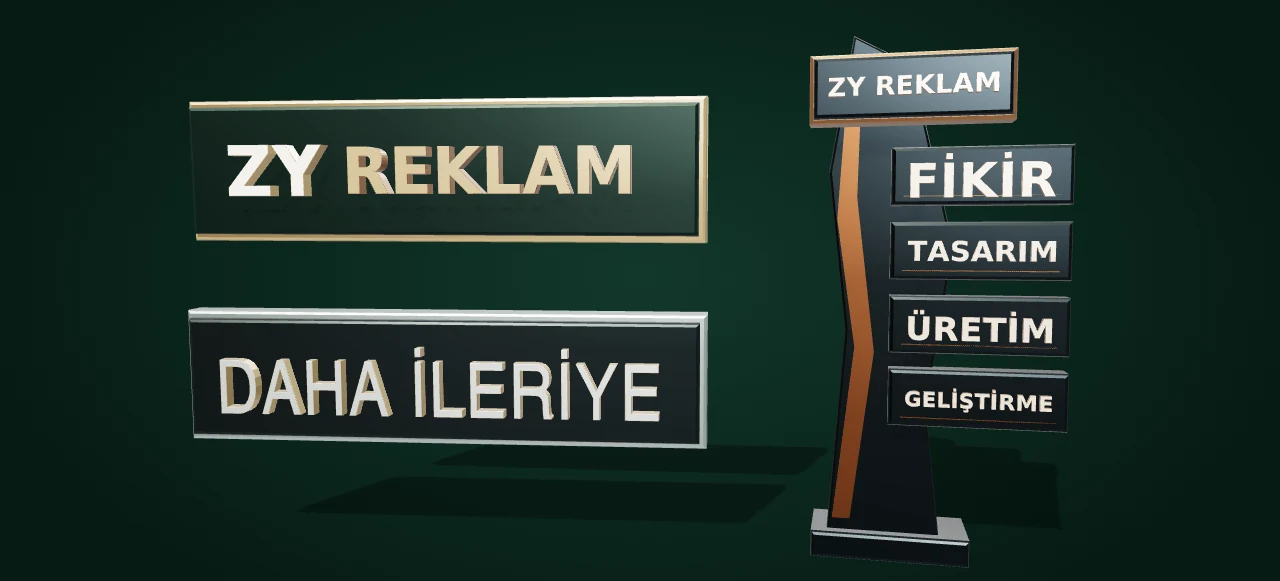
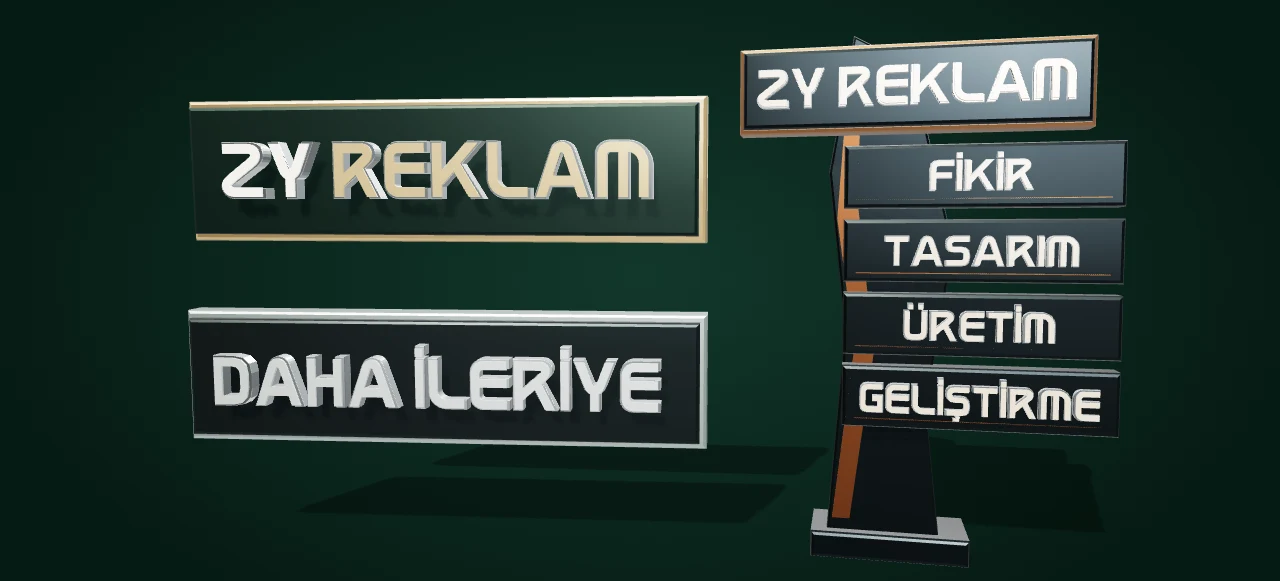
feat: refine showroom lettering with chrome cases and proximity lighting

Changed region(s): [[0.5625, 0.062, 0.9062, 0.7435], [0.1562, 0.5886, 0.5312, 0.7435], [0.1562, 0.2169, 0.5312, 0.3408]]

diff --git a/src/showroom/models.ts b/src/showroom/models.ts
@@ -1,7 +1,7 @@
 import { Group, Mesh, Shape, ExtrudeGeometry, BoxGeometry, MeshStandardMaterial, PointLight } from 'three';
 import { SVGLoader } from 'three/addons/loaders/SVGLoader.js';
 
-export type Outlines = Record<string, {svg:string; width:number; height:number; text:string; font:string}>;
+export type Outlines = Record<string, {svg:string; width:number; height:number; text:string; font:string; glyphs?:{char:string;x:number;width:number;path:string}[]}>;
 export interface Product { id:string; group:Group; baseYaw:number; basePitch:number; lights:PointLight[]; glow:MeshStandardMaterial[]; metal:MeshStandardMaterial[]; strength:number; }
 const material=(color:string,metalness=.85,roughness=.3)=>new MeshStandardMaterial({color,metalness,roughness});
 function box(parent:Group,w:number,h:number,d:number,mat:MeshStandardMaterial,x=0,y=0,z=0) {
@@ -12,25 +12,39 @@ function slab(parent:Group,w:number,h:number,depth:number,mat:MeshStandardMateri
   const geometry=new ExtrudeGeometry(s,{depth,bevelEnabled:true,bevelSegments:2,steps:1,bevelSize:.045,bevelThickness:.045,curveSegments:4});
   const mesh=new Mesh(geometry,mat);mesh.position.z=z;mesh.castShadow=true;mesh.receiveShadow=true;parent.add(mesh);return mesh;
 }
-function letters(parent:Group,outline:Outlines[string],width:number,face:MeshStandardMaterial,side:MeshStandardMaterial,depth:number,x:number,y:number,z:number) {
-  const parsed=new SVGLoader().parse(outline.svg);const shapes=parsed.paths.flatMap(p=>SVGLoader.createShapes(p));
-  const geometry=new ExtrudeGeometry(shapes,{depth:depth*outline.width/width,bevelEnabled:true,bevelThickness:.8,bevelSize:.6,bevelSegments:2,curveSegments:5,steps:1});
-  geometry.scale(width/outline.width,width/outline.width,width/outline.width);geometry.computeBoundingBox();const b=geometry.boundingBox!;geometry.translate(-(b.min.x+b.max.x)/2,-(b.min.y+b.max.y)/2,0);
-  const mesh=new Mesh(geometry,[face,side]);mesh.scale.y=-1;mesh.position.set(x,y,z);mesh.castShadow=true;parent.add(mesh);return mesh;
+const lightColors=['#20bcc9','#c94e58','#467acb','#d78c44','#eef3ed'];
+function letters(parent:Group,outline:Outlines[string],width:number,face:MeshStandardMaterial,chrome:MeshStandardMaterial,depth:number,x:number,y:number,z:number,glow?:MeshStandardMaterial[],colorOffset=0) {
+  const parsed=new SVGLoader().parse(outline.svg),scale=width/outline.width;
+  const assembly=new Group();assembly.position.set(x,y,z);parent.add(assembly);
+  parsed.paths.forEach((path,i)=>{
+    const shapes=SVGLoader.createShapes(path);
+    const geometry=new ExtrudeGeometry(shapes,{depth:depth/scale,bevelEnabled:true,bevelThickness:1,bevelSize:1,bevelSegments:2,curveSegments:3,steps:1});
+    geometry.scale(scale,scale,scale);geometry.translate(-outline.width*scale/2,-74*scale,0);
+    const housing=new Mesh(geometry,chrome);housing.scale.y=-1;housing.castShadow=true;assembly.add(housing);
+    // Each letter has its own inset luminous face inside a continuous chrome case.
+    const frontGeometry=new ExtrudeGeometry(shapes,{depth:.025/scale,bevelEnabled:true,bevelThickness:.35,bevelSize:.35,bevelSegments:1,curveSegments:3,steps:1});
+    frontGeometry.scale(scale,scale,scale);frontGeometry.computeBoundingBox();const bounds=frontGeometry.boundingBox!;
+    const cx=(bounds.min.x+bounds.max.x)/2,cy=(bounds.min.y+bounds.max.y)/2;
+    frontGeometry.translate(-cx,-cy,0);frontGeometry.scale(.90,.94,1);
+    const frontMaterial=face.clone();if(glow){frontMaterial.emissive.set(lightColors[(i+colorOffset)%lightColors.length]);frontMaterial.emissiveIntensity=0;frontMaterial.userData.baseColor=frontMaterial.color.clone();frontMaterial.userData.baseMetalness=frontMaterial.metalness;glow.push(frontMaterial);}
+    const front=new Mesh(frontGeometry,frontMaterial);front.scale.y=-1;front.position.set(cx-outline.width*scale/2,-(cy-74*scale),depth+.024);front.castShadow=true;assembly.add(front);
+  });
+  assembly.userData.capHeight=100*scale;assembly.userData.text=outline.text;assembly.userData.chrome=true;
+  return assembly;
 }
 export function createProducts(outlines:Outlines):Product[] {
   const gold=material('#c2a779',.92,.27),silver=material('#9caaa9',.95,.38),bronze=material('#8c6545',.9,.3);
   const white=material('#ede7d5',.35,.3),goldFace=material('#dbc08d',.82,.25),silverFace=material('#c2cacc',.88,.42);
   for(const m of [white,goldFace,silverFace]){m.emissive.set('#c18b43');m.emissiveIntensity=.025;}
-  const top=new Group();top.position.set(-2.4,1.5,0);top.rotation.set(.07,-.11,0);
+  const topGlow:MeshStandardMaterial[]=[],lowerGlow:MeshStandardMaterial[]=[];const chrome=material('#ccd6d9',1,.19);const top=new Group();top.position.set(-2.4,1.5,0);top.rotation.set(.07,-.11,0);
   slab(top,6.4,1.65,.25,gold);slab(top,6.22,1.47,.14,material('#10231f',.7,.38),.27);
   box(top,5.9,.016,.02,bronze,0,-.55,.43);
-  letters(top,outlines.zy,1.22,white,gold,.2,-1.95,0,.45);letters(top,outlines.reklam,3.55,goldFace,bronze,.2,.67,0,.45);
+  letters(top,outlines.zy,1.22,white,chrome,.2,-2.02,0,.45,topGlow);letters(top,outlines.reklam,3.88,goldFace,chrome,.2,.73,0,.45,topGlow,2);
   const lower=new Group();lower.position.set(-2.4,-1.05,.1);lower.rotation.set(.055,-.08,0);
   slab(lower,6.4,1.55,.28,silver);slab(lower,6.22,1.37,.12,material('#242d30',.88,.36),.3);
   // Small parallel metal grooves catch light without applying a flat picture.
   for(let i=0;i<8;i++)box(lower,5.9,.007,.009,material('#566365',.95,.55),0,-.58+i*.018,.435);
-  letters(lower,outlines.lower,5.48,silverFace,gold,.15,0,0,.46);
+  letters(lower,outlines.lower,5.48,silverFace,chrome,.18,0,0,.46,lowerGlow,3);
   const totem=new Group();totem.position.set(3.15,0,0);totem.rotation.set(.025,-.23,0);
   const dark=material('#1b2327',.88,.32);const profile=new Shape();profile.moveTo(-.7,-2.9);profile.lineTo(.55,-2.9);profile.lineTo(.38,-1.35);profile.lineTo(.66,.55);profile.lineTo(.16,2.68);profile.lineTo(-.46,3.02);profile.lineTo(-.72,1.45);profile.lineTo(-.51,-.45);profile.closePath();
   const body=new Mesh(new ExtrudeGeometry(profile,{depth:.58,bevelEnabled:true,bevelSize:.035,bevelThickness:.035,bevelSegments:2,steps:1}),dark);body.castShadow=true;body.receiveShadow=true;totem.add(body);
@@ -38,17 +52,18 @@ export function createProducts(outlines:Outlines):Product[] {
   const amber=material('#5b3820',.9,.4);amber.emissive.set('#ff7c20');amber.emissiveIntensity=.035;
   const channel=new Mesh(new ExtrudeGeometry(facet,{depth:.04,bevelEnabled:false}),amber);channel.position.z=.6;totem.add(channel);
   slab(totem,1.75,.23,.9,dark,-.15).position.y=-3.05;
-  const head=new Group();head.position.set(.16,2.38,.65);totem.add(head);slab(head,2.18,.7,.33,bronze);slab(head,2.08,.6,.07,dark,.35);
-  const lit=material('#cbbba3',.55,.3);lit.emissive.set('#ffad52');lit.emissiveIntensity=.025;letters(head,outlines.title,1.87,lit,bronze,.075,0,0,.45);
+  const head=new Group();head.position.set(.16,2.38,.65);totem.add(head);slab(head,3.8,.9,.33,bronze);slab(head,3.7,.8,.07,dark,.35);
+  const lit=material('#cbbba3',.55,.3);lit.emissive.set('#ffad52');lit.emissiveIntensity=.025;const totemGlow:MeshStandardMaterial[]=[amber];const title=letters(head,outlines.title,3.45,lit,chrome,.09,0,0,.45);title.traverse(o=>{if(o instanceof Mesh&&o.material!==chrome)totemGlow.push(o.material as MeshStandardMaterial);});
   ['idea','design','production','development'].forEach((key,i)=>{
     const panel=new Group();panel.position.set(.95,1.38-i*.86,.55);totem.add(panel);
-    box(panel,.7,.1,.18,bronze,-.7,0,-.06);slab(panel,1.88,.58,.28,dark);box(panel,1.7,.012,.03,amber,0,-.23,.31);
-    letters(panel,outlines[key],Math.min(1.62,outlines[key].width*.0055),lit,bronze,.065,0,0,.32);
+    box(panel,.7,.1,.18,bronze,-.7,0,-.06);slab(panel,2.95,.64,.28,dark);box(panel,2.75,.012,.03,amber,0,-.26,.31);
+    const label=letters(panel,outlines[key],outlines[key].width*.00345,lit,chrome,.075,0,0,.32);label.traverse(o=>{if(o instanceof Mesh&&o.material!==chrome)totemGlow.push(o.material as MeshStandardMaterial);});
   });
   const lamp=new PointLight('#ffa34d',0,5,2);lamp.position.set(-.25,.3,1.15);totem.add(lamp);
+  const signLights=(group:Group,colors:string[])=>colors.map((color,i)=>{const lamp=new PointLight(color,0,2.4,2);lamp.position.set(-1.4+i*2.8,0,.95);group.add(lamp);return lamp;});
   return [
-    {id:'upper',group:top,baseYaw:-.11,basePitch:.07,lights:[],glow:[white,goldFace],metal:[gold,bronze],strength:1},
-    {id:'lower',group:lower,baseYaw:-.08,basePitch:.055,lights:[],glow:[silverFace],metal:[silver],strength:.65},
-    {id:'totem',group:totem,baseYaw:-.23,basePitch:.025,lights:[lamp],glow:[lit,amber],metal:[dark],strength:.45},
+    {id:'upper',group:top,baseYaw:-.11,basePitch:.07,lights:signLights(top,['#64cbd3','#d99b64']),glow:topGlow,metal:[gold,bronze,chrome],strength:1},
+    {id:'lower',group:lower,baseYaw:-.08,basePitch:.055,lights:signLights(lower,['#789dde','#d77676']),glow:lowerGlow,metal:[silver,chrome],strength:.65},
+    {id:'totem',group:totem,baseYaw:-.23,basePitch:.025,lights:[lamp],glow:totemGlow,metal:[dark],strength:.45},
   ];
 }

diff --git a/src/showroom/renderer.ts b/src/showroom/renderer.ts
@@ -27,7 +27,7 @@ export function createShowroomRenderer(stage:HTMLElement,mount:HTMLElement,outli
       const yaw=p.baseYaw+(reduced?0:px*.11*n*p.strength),pitch=p.basePitch+(reduced?0:-py*.075*n*p.strength),z=reduced?0:.18*n*p.strength;
       if(Math.abs(p.group.rotation.y-yaw)>.0001||Math.abs(p.group.rotation.x-pitch)>.0001||Math.abs(old-n)>.0001)moving=true;
       p.group.rotation.set(pitch,yaw,0);p.group.position.z=z;
-      p.glow.forEach(m=>m.emissiveIntensity=.025+n*(p.id==='totem'?1.35:.38));p.lights.forEach(l=>l.intensity=n*4);
+      p.glow.forEach(m=>{m.emissiveIntensity=(p.id==='totem'?.025:0)+n*(p.id==='totem'?1.35:1.3);if(m.userData.baseColor){m.color.copy(m.userData.baseColor).lerp(m.emissive,n*.94).multiplyScalar(1-n*.92);m.envMapIntensity=1-n*.85;m.metalness=m.userData.baseMetalness*(1-n*.8);}});p.lights.forEach(l=>l.intensity=n*(p.id==='totem'?4:.85));
       p.metal.forEach(m=>m.envMapIntensity=1+n*.7);stage.dataset[p.id+'Active']=String(n>.1);stage.dataset[p.id+'Pose']=[pitch,yaw,z].join(',');
     }
     draw();if(moving){stage.dataset.loop='running';raf=requestAnimationFrame(animate);}else stop();
@@ -55,6 +55,6 @@ export function createShowroomRenderer(stage:HTMLElement,mount:HTMLElement,outli
     products[0].group.position.set(mobile?0:-2.4,mobile?3.65:1.5,0);products[1].group.position.set(mobile?0:-2.4,mobile?1.7:-1.05,0);products[2].group.position.set(mobile?-.4:3.15,mobile?-1.45:0,0);
     products[0].group.scale.setScalar(mobile?.78:1);products[1].group.scale.setScalar(mobile?.78:1);products[2].group.scale.setScalar(mobile?.78:1);
     floor.position.y=mobile?-3.99:-3.25;const height=Math.max(mobile?10.2:7.3,(mobile?5.3:11.9)/camera.aspect);camera.position.set(0,mobile?.2:.4,height/(2*Math.tan(35*Math.PI/360)));camera.lookAt(0,mobile?.15:0,0);camera.updateProjectionMatrix();if(visible){draw();wake();}}
-  const observer=new ResizeObserver(resize);observer.observe(stage);mount.append(canvas);resize();draw();stage.dataset.products='3';stage.dataset.geometry='extruded-letters-and-asymmetric-solid';stage.dataset.quality='standard';
+  const observer=new ResizeObserver(resize);observer.observe(stage);mount.append(canvas);resize();draw();stage.dataset.products='3';stage.dataset.letterStyle=outlines.lower.font;stage.dataset.chrome='true';stage.dataset.panelCapHeights=products[2].group.children.filter(g=>g.type==='Group').slice(1).map(g=>g.children.find(c=>c.userData.text)?.userData.capHeight).join(',');stage.dataset.titleCapHeight=String(products[2].group.children.find(g=>g.type==='Group')?.children.find(c=>c.userData.text)?.userData.capHeight);stage.dataset.lightPalette='#20bcc9,#c94e58,#467acb,#d78c44,#eef3ed';stage.dataset.geometry='extruded-letters-and-asymmetric-solid';stage.dataset.quality='standard';
   return {setVisible(value){if(value===visible)return;visible=value;if(value){draw();wake();}else{select(null);stop();}},setReduced(value){if(value===reduced)return;reduced=value;wake();},select,dispose(){if(disposed)return;disposed=true;stop();abort.abort();clearTimeout(touchTimer);observer.disconnect();const geometries=new Set<import('three').BufferGeometry>(),materials=new Set<Material>();scene.traverse(o=>{if(o instanceof Mesh){geometries.add(o.geometry);(Array.isArray(o.material)?o.material:[o.material]).forEach(m=>materials.add(m));}});geometries.forEach(g=>g.dispose());materials.forEach(m=>m.dispose());key.shadow.dispose();env.dispose();renderer.dispose();renderer.forceContextLoss();canvas.remove();stage.dataset.resources='disposed';}};
 }

diff --git a/scripts/generate-showroom-outlines.py b/scripts/generate-showroom-outlines.py
@@ -1,19 +1,50 @@
-"""Optional asset regeneration: Python fontTools + DejaVu / URW Base35 fonts.
-Versioned outlines are used by npm builds; Python is not a build dependency.
-Run from the repository root: python scripts/generate-showroom-outlines.py
+"""Generate showroom vector lettering from the approved wordmark and matching glyphs.
+Optional tool: Python fontTools. npm builds use the versioned JSON, not Python.
+The source brand SVG and existing hero are never rewritten.
 """
-from fontTools.ttLib import TTFont
+from pathlib import Path
+from xml.etree import ElementTree as ET
+from fontTools.svgLib.path import parse_path
+from fontTools.pens.boundsPen import BoundsPen
 from fontTools.pens.svgPathPen import SVGPathPen
 from fontTools.pens.transformPen import TransformPen
-from pathlib import Path
 import json
-fonts={'bold':'/usr/share/fonts/truetype/dejavu/DejaVuSans-Bold.ttf','narrow':'/usr/share/fonts/opentype/urw-base35/NimbusSansNarrow-Regular.otf'}
-texts={'zy':('ZY','bold'),'reklam':('REKLAM','bold'),'lower':('DAHA İLERİYE','narrow'),'title':('ZY REKLAM','bold'),'idea':('FİKİR','bold'),'design':('TASARIM','bold'),'production':('ÜRETİM','bold'),'development':('GELİŞTİRME','bold')};data={}
-for key,(text,font) in texts.items():
- f=TTFont(fonts[font]);g=f.getGlyphSet();cmap=f.getBestCmap();s=100/f['head'].unitsPerEm;x=0;paths=[]
- for c in text:
-  name=cmap[ord(c)];p=SVGPathPen(g);g[name].draw(TransformPen(p,(s,0,0,-s,x,95)));paths.append(p.getCommands());x+=f['hmtx'][name][0]*s+(3 if font=='narrow' else 1)
- svg=f'<svg xmlns="http://www.w3.org/2000/svg" viewBox="0 0 {x:.3f} 120"><path fill="#ffffff" d="'+''.join(paths)+'"/></svg>'
- data[key]={'svg':svg,'width':x,'height':120,'text':text,'font':font}
-Path(__file__).resolve().parents[1].joinpath('public/assets/showroom/letter-outlines.json').write_text(json.dumps(data,ensure_ascii=False))
-Path(__file__).resolve().parents[1].joinpath('public/assets/showroom/FONT_NOTICES.txt').write_text(Path('/usr/share/doc/fonts-dejavu-core/copyright').read_text()+'\n'+Path('/usr/share/doc/fonts-urw-base35/copyright').read_text())
+root = Path(__file__).resolve().parents[1]
+source = ET.parse(root / 'public/assets/brand/zy-reklam-wordmark.svg').getroot()
+paths = source.findall('{http://www.w3.org/2000/svg}path')
+glyphs = {}
+for letter, path in zip('ZYREKLAM', paths):
+    bounds = BoundsPen(None); parse_path(path.attrib['d'], bounds)
+    x0, y0, x1, y1 = bounds.bounds
+    scale = 100 / (y1-y0)
+    pen = SVGPathPen(None)
+    parse_path(path.attrib['d'], TransformPen(pen, (scale,0,0,scale,-x0*scale,-y0*scale)))
+    glyphs[letter] = (pen.getCommands(), (x1-x0)*scale)
+# Additional original glyphs follow the logo's rounded corners and 18-unit metal strokes.
+custom = {
+'D': ('M0 0H43Q78 0 78 35V65Q78 100 43 100H0Z M18 18V82H42Q60 82 60 64V36Q60 18 42 18Z',78),
+'H': ('M0 0H18V41H59V0H77V100H59V59H18V100H0Z',77),
+'I': ('M0 0H18V100H0Z',18),
+'F': ('M0 100V26Q0 0 26 0H77V18H28Q18 18 18 28V41H70V59H18V100Z',77),
+'G': ('M78 0V18H28Q18 18 18 28V72Q18 82 28 82H60V60H43V42H78V100H26Q0 100 0 74V26Q0 0 26 0Z',78),
+'S': ('M77 0V18H27Q18 18 18 27Q18 36 27 36H51Q78 36 78 63V73Q78 100 51 100H0V82H50Q60 82 60 72V64Q60 54 50 54H27Q0 54 0 27Q0 0 27 0Z',78),
+'T': ('M0 0H80V18H49V100H31V18H0Z',80),
+'U': ('M0 0H18V70Q18 82 30 82H48Q60 82 60 70V0H78V72Q78 100 50 100H28Q0 100 0 72Z',78),
+}
+glyphs.update(custom)
+glyphs['İ']=(glyphs['I'][0]+' M0 -24H18V-7H0Z',18)
+glyphs['Ü']=(glyphs['U'][0]+' M13 -24H30V-7H13Z M48 -24H65V-7H48Z',78)
+glyphs['Ş']=(glyphs['S'][0]+' M32 105H47L43 120H24V111H34Z',78)
+texts={'zy':'ZY','reklam':'REKLAM','lower':'DAHA İLERİYE','title':'ZY REKLAM','idea':'FİKİR','design':'TASARIM','production':'ÜRETİM','development':'GELİŞTİRME'}
+data={}
+for key,text in texts.items():
+    x=0; glyph_records=[]; chunks=[]
+    for char in text:
+        if char==' ': x+=30; continue
+        path,width=glyphs[char]; pen=SVGPathPen(None)
+        parse_path(path,TransformPen(pen,(1,0,0,1,x,24)))
+        d=pen.getCommands(); chunks.append(f'<path fill-rule="evenodd" fill="#fff" d="{d}"/>')
+        glyph_records.append({'char':char,'x':x,'width':width,'path':d})
+        x+=width+7
+    data[key]={'svg':f'<svg xmlns="http://www.w3.org/2000/svg" viewBox="0 0 {x} 144">'+''.join(chunks)+'</svg>','width':x,'height':144,'capHeight':100,'text':text,'font':'approved-wordmark-geometric'}
+(root/'public/assets/showroom/letter-outlines.json').write_text(json.dumps(data,ensure_ascii=False),encoding='utf-8')

diff --git a/LAST_REPORT.md b/LAST_REPORT.md
@@ -1,49 +1,41 @@
-# ZY Reklam — P3.7 Son Rapor
+# ZY Reklam — P3.7a Son Rapor
 
-Tarih: 2026-10-01
-Depo: akinarslan/zy_reklam · hedef dal: main
-Sonuç: Bağımsız 3D Vitrin / Showroom tamamlandı; üretim build’i ve 29 test başarılı.
+Tarih: 2026-10-01 · Depo: akinarslan/zy_reklam · Dal: main
+Sonuç: Vitrin harf stili, krom kasalar, renkli yaklaşma ışıkları ve totem tipografi hiyerarşisi tamamlandı.
 
-## Yerleşim ve ürünler
+## Kullanıcı talimatının karşılığı
 
-Yeni `#vitrin` bölümü mevcut hero’nun hemen ardından ve `#hizmetler` bölümünden önce yer alır. Hero’nun bir parçası değildir. Koyu zümrüt atmosfer, masaüstünde solda iki tabela ve sağda totem; dar ekranda okunaklı üst üste ürün düzeni.
+Yeniden yüklenen ekran görüntüsü bu defa açılıp incelendi. Gösterilen yuvarlatılmış/geometrik ZY REKLAM stili bütün yeni vitrin yazılarına uygulandı. ZY REKLAM yazıları mevcut onaylı SVG’nin özgün Z/Y/R/E/K/L/A/M konturlarından oluşturulur. Diğer kelimeler aynı glifler ve bu harf diline uyarlanmış ek D/H/I/F/G/S/T/U ile Türkçe İ/Ü/Ş işaretlerini kullanır. Belirli bir font adı tahmin edilmedi. Mevcut hero ve ilk 3D tabela aynen korundu.
 
-- Üst tabela tam `ZY REKLAM`: tok modern karakter, fildişi ZY ön yüzü, şampanya REKLAM ön yüzü, altın/bronz yan yüz ve çerçeve; zümrüt/antrasit taşıyıcı.
-- Alt tabela tam `DAHA İLERİYE`: farklı ve dar Nimbus Sans Narrow karakteri; füme taşıyıcı, gümüş/alüminyum çerçeve ve ön yüz, şampanya yan yüz. Metal çizgiler, roughness ve çevre yansımaları.
-- Totem: kırıklı/asimetrik antrasit gövde, bronz/amber kanal, gerçek kalınlık ve taban. Üst blok `ZY REKLAM`; dışarı taşan dört fiziksel kutuda `FİKİR`, `TASARIM`, `ÜRETİM`, `GELİŞTİRME`.
+Her harfin tam çevresi ve yan yüzleri gerçek ekstrüzyon krom kasa olarak üretildi. Kasanın içinde daha küçük, ayrı kalınlığı olan ışıklı ön yüz bulunur; düz yazı görseli yapıştırılmadı. Krom metalness/roughness, bevel, perspektif ve gölgeler kutu harf derinliğini belirginleştirir.
 
-Harfler font gliflerinin SVG konturlarından bevel/extrusion ile üretilir; yazı görseli yapıştırılan düzlem kullanılmadı. Panel, gövde, çerçeve, yan yüz ve gölgeler gerçek geometridir. Sahne ana geçişinde 34.374 üçgen doğrulandı. Ürünler temsili tasarım olarak belirtilir; müşteri işi/sahiplik iddiası yapılmaz. Kullanıcının sözünü ettiği NORTHFESTIA referansının dosyası bu çalışma ortamında mevcut değildi; yazılı form ve ışık tarifine göre özgün model üretildi.
+İki tabelanın harflerine cam göbeği, kırmızı, mavi, turuncu ve beyazın kontrollü tonları dağıtıldı. Mouse yalnız ilgili tabelaya yaklaşınca ışık yumuşakça açılır; uzaklaşınca kapanır ve normal metal/fildişi/altın görünüm geri gelir. Sabit renk dağılımı kullanılır; renk döngüsü, strobe veya sürekli float yoktur. İç yüzlerin ışık/diffuse dengesi, güçlü çevre ışığında renklerin beyazlaşmasını azaltacak biçimde ayarlandı. Krom çevre renkli LED yüzeyden bağımsız metalik kalır; yerel renkli ışıklar taşıyıcıya hafif yansır.
 
-## Etkileşim, erişilebilirlik ve kaynak yönetimi
+Totem yön yazıları aynı 0,345 dünya birimi cap-height ölçeğindedir: FİKİR, TASARIM, ÜRETİM, GELİŞTİRME. Kelime genişlikleri doğal olarak farklıdır. Uzun kelime küçültülmedi; fiziksel kutular genişletildi. Üst ZY REKLAM 0,4372 cap-height ile yaklaşık %27 daha büyüktür. Totem geometrik gövdesi, dört fiziksel paneli ve sıcak amber etkileşimini korur.
 
-Normal durumda üç obje tamamen sabittir; float/sallanma yoktur. Raycast ve küçük yaklaşma alanı yalnız ilgili ürünün sınırlı tilt, öne gelme, metal highlight ve yumuşak ışık tepkisini çalıştırır. Alt tabela daha kontrollü tepki verir. Totem seçildiğinde amber kanal, ana başlık ve dört panel birlikte aydınlanır; çevre metalinde hafif sıcak yansıma oluşur. Mouse ayrılınca başlangıç durumuna döner.
+## Mimari ve korunan davranışlar
 
-Dokunma doğrudan canvas üzerinde desteklenir; tepki 900 ms sonra söner. Parmağın kalkması kısa tepkiyi kesmez; dikey sayfa kaydırma korunur. Üç erişilebilir düğme klavyeyle ürün seçimini sağlar. Reduced motion’da 3D görüntü ve ışık korunur, tilt/poz hareketi uygulanmaz.
+Mimari v1.11/A12, roadmap v1.10/P3.7a. Önceki farklı-font şartı kullanıcının yeni bütün-yazılar-aynı-stil talimatıyla açıkça revize edildi. Yerleşim bağımsız hero-altı vitrin olarak kaldı. Lazy yükleme, obje bazlı yaklaşma, kısa touch tepkisi, klavye düğmeleri, idle/offscreen/hidden duruşu, kaynak temizliği ve reduced-motion sabit 3D pozu korunur.
 
-IntersectionObserver 180 px yaklaşınca dinamik renderer ve harf konturları yüklenir. Idle, görünmeyen bölüm, gizli sekme ve pagehide durumlarında RAF durur. Mobil DPR sınırlanır; sürdürülen yavaş karelerde DPR/gölge kalitesi azaltılır. Temizleme olayları geometri, malzeme, environment, shadow ve WebGL kaynaklarını bırakır.
+Ana sayfa HTML’i, main.ts/main.css, bütün hero kaynakları, navigation, WhatsApp stili ve wrangler.jsonc başlangıç SHA-256 kimlikleriyle eşleşti. Projeler/Promosyonlar mega menülerine, WhatsApp’a, domain/Cloudflare ayarlarına ve diğer sayfa tasarımına dokunulmadı. Özgün marka SVG’si değişmedi; yalnız vitrin konturları ondan türetildi.
 
-Mevcut hero koduna dokunmadan bağımsız renderer kullanıldı. Hero ürün sahnesi görünürken showroom RAF çalışmaz. İki context bellekte bulunabilir; mimarinin önceki tek-renderer hedefinin kullanıcı kapsamına özel bu revizyonu A12’de açıkça kaydedildi.
+Masaüstü/mobil statik WebP yedekler yeni gerçek 3D görünümden güncellendi. Three.js yüklenemezse veya context kaybolursa aynı ürün düzeni gösterilir. Temsili ürün açıklaması korunur.
 
-Three.js/modül yüklemesi, WebGL veya context kaybı başarısız olursa aynı gerçek sahneden alınmış responsive masaüstü/mobil WebP statik yedeği görünür. JavaScript kapalıyken de ürünler ve metin erişilebilirdir.
+## Doğrulama ve sınırlar
 
-## Korunan alanlar
+- npm run build başarılı; TypeScript hatası yok.
+- ZY_CHROMIUM_PATH=/workspace/scratch/b50044a63eb5/qa-tools/chromium npm test: 29 test / 29 pass / 0 fail.
+- Stil/krom/beş renk, eşit yön yazıları ve en az %20 büyük başlık koşulları gerçek tarayıcı kabul testine eklendi; geçti.
+- Obje bazlı mouse/touch, boşta/dışarıda durma, reduced-motion sabit poz, lazy yükleme, modül hatası ve context-loss yedeği geçti.
+- Mevcut hero, menü/kategori/medya, iletişim ve cihaz ölçüm testleri geçti. 360/768/1440 px yatay taşma yok.
+- Vitrin 360/1440 px, normal ve ışıklı tabela/totem ekranları görsel olarak incelendi.
 
-Başlangıç main: `72d2dcb0cf15ad670f2bb132410b5dbf87ec30dc`. Yeni showroom bloğu çıkarıldığında index.html başlangıç içeriğiyle birebir aynıdır. Hero HTML’i ve bütün src/scene dosyaları değişmedi. Navigation, teklif/iletişim kodu, promosyon/proje stilleri, WhatsApp stili ve wrangler.jsonc SHA-256 eşleşmeleri başarılıdır. Projeler/Promosyonlar mega menüleri, WhatsApp, domain ve Cloudflare yapılandırmasına dokunulmadı. CSS’de yalnız yeni bağımsız stylesheet import’u; main.ts’de yalnız yeni bağımsız adapter bağlantısı eklendi.
+Krom kasa ve ayrı ışıklı yüzlerle ana sahne geometrisi 71.014 üçgendir. İlk krom prototipinin 167.318 üçgeni curve/bevel bütçesi azaltılarak düşürüldü. Yeni npm bağımlılığı eklenmedi; ortak Three/SVGLoader chunk’ının yaklaşık 600 KB / gzip 154 KB Vite uyarısı sürer ve dinamik yükleme korunur. Chromium/ANGLE SwiftShader ve viewport emülasyonu fiziksel mobil GPU kabulü değildir; P3.6 fiziksel kabulü açık kalır.
 
-## Doğrulama
+## Dosyalar ve kayıt
 
-- `npm run build`: başarılı; TypeScript hatası yok.
-- `ZY_CHROMIUM_PATH=/workspace/scratch/b50044a63eb5/qa-tools/chromium npm test`: 29/29 başarılı; mevcut 26 test ve yeni 3 showroom testi.
-- Masaüstü/mobil 360, 768 ve 1440 px: yatay taşma ve sayfa hatası yok. Vitrin 360/1440 px görüntüleri görsel olarak incelendi.
-- Üç ürünün bağımsız seçimi, gerçek mouse/touch, idle/offscreen duruşu, reduced-motion sabit pozu, lazy yükleme, modül hatası ve context-loss statik yedeği geçti.
-- Mevcut hero geometrisi, özgün konturlar, menüler, kategori URL’leri, videolar, WhatsApp ve cihaz ölçüm testleri geçti.
+Değişen uygulama/varlıklar: src/showroom/models.ts ve renderer.ts; scripts/generate-showroom-outlines.py; public/assets/showroom/letter-outlines.json ile iki statik WebP; tests/showroom.test.mjs. Belgeler: ARCHITECTURE.md, ROADMAP.md, docs/ASSET_INVENTORY.md, bu rapor. Kanıtlar: P3_7_STYLE_PRESERVATION.json, P3_7_STYLE_VERIFICATION.json, P3_7_SHOWROOM_VERIFICATION.json, P3_7_TEST_RUN.txt ve altı vitrin JPG’si.
 
-Kanıtlar: `docs/evidence/P3_7_PRESERVATION.json`, `P3_7_SHOWROOM_VERIFICATION.json`; `p3-7-showroom-1440.jpg`, `p3-7-showroom-360.jpg` ve iki ışıklı görünüm. Test tarayıcısı Chromium/ANGLE SwiftShader’dır; mobil viewport emülasyonu fiziksel GPU ölçümü değildir. P3.6 fiziksel kabulü açık kalır.
+Python fontTools yalnız isteğe bağlı kontur üretimi için gereklidir; npm build sürümlenmiş JSON’u kullanır. Önceki font bildirimleri tarihsel dosya olarak korunur; yeni konturlar DejaVu/Nimbus kullanmaz.
 
-Vite ortak Three/SVGLoader dosyası yaklaşık 600 KB (gzip 154 KB) için chunk boyut uyarısı verir. Bu hata değildir; Three dinamik yüklenir ve sahneler aynı ortak chunk’ı paylaşır. Yeni npm bağımlılığı eklenmedi.
-
-## Belgeler, varlıklar ve kayıt
-
-Mimari v1.10/A12, roadmap v1.9/P3.7 ve varlık envanteri güncellendi. Yeni src/showroom modülleri, scoped stylesheet, font konturları/lisans bildirimleri, statik yedekler, isteğe bağlı fontTools üretim script’i ve tarayıcı testi eklendi. Normal npm build için Python/font kurulumu gerekmez; konturlar sürümlenmiştir.
-
-Bu rapor proje kökündeki LAST_REPORT.md dosyasının önceki içeriğinin üzerine yazıldı; aynı içerik terminalde gösterildi. Değişiklikler mevcut uzak ağacı koruyarak GitHub main’e kaydedilir; commit kimliği kayıt doğrulamasından sonra son yanıtta verilir. Cloudflare/domain ayarları değiştirilmedi ve canlı yayın başarısı bu raporda iddia edilmez. Sonraki tek iş: canlı yayında yeni bağımsız vitrin bölümünü doğrulamak.
+LAST_REPORT.md önceki içeriğin üzerine UTF-8 yazıldı; aynı tam rapor terminalde gösterildi. Kayıt mevcut uzak ağacı koruyarak GitHub main’e yapılır ve yeniden okunarak doğrulanır; oluşan commit kimliği son yanıtta verilir. Canlı Cloudflare yayını bu raporda doğrulanmış sayılmaz. Sıradaki tek iş: canlı vitrinde yeni stil, krom çevre ve renkli yaklaşma ışıklarının görünürlüğünü doğrulamak.

diff --git a/ROADMAP.md b/ROADMAP.md
@@ -1,6 +1,6 @@
 # ZY Reklam — Yol Haritası
 
-**Sürüm:** 1.9 · **Başlangıç:** 2026-10-01
+**Sürüm:** 1.10 · **Başlangıç:** 2026-10-01
 
 **Kaynak:** [ARCHITECTURE.md](ARCHITECTURE.md) · **Zorunlu kontrol:** [AGENTS.md](AGENTS.md)
 
@@ -10,7 +10,7 @@
 
 **Aktif aşama:** P3 — Gerçek 3D açılış uygulandı; performans kapanışı devam ediyor.
 
-**Kullanıcı önceliği:** P3.7 — Hero’ya dokunmadan bağımsız 3D Vitrin. Kullanıcının açık önceliği fiziksel P3.6 kapanışı beklenirken uygulanır; diğer aşamalar tamamlanmış sayılmaz.
+**Kullanıcı önceliği:** P3.7a — Vitrin harf stili, krom kasa ve kontrollü renkli yaklaşma ışığı. Kullanıcının açık önceliği fiziksel P3.6 kapanışı beklenirken uygulanır; diğer aşamalar tamamlanmış sayılmaz.
 
 P1 kaynak, logo, font ve iletişim incelemesi yapıldı; gerçek proje bilgileri/fotoğrafları doğrulanmadığı için P1.5 açık kalır. Planın engel yönetimi uyarınca bağımsız P2 temeli tamamlandı. Vite/TypeScript sayfası, statik SVG poster, mobil menü, hareket tercihi ve temel WhatsApp iletişim akışı çalışıyor. Gerçek 3D açılış şimdi uygulanmıştır. Üretim animasyonları, galeri, stüdyo ve upload henüz uygulanmadı.
 
@@ -90,6 +90,8 @@ Süreler takvim taahhüdü değildir. P1 sonrası logo kalitesi, gerçek görsel
 - [x] P3.7 Bağımsız 3D Vitrin: iki farklı kutu harf tabela/asimetrik totem; obje bazlı etkileşim, lazy/reduced/mobile/fallback ve korunan hero kanıtı. **Tamamlandı; fiziksel GPU kabulü P3.6 kapsamında açık.**
 
 **Kabul:** Amblem özgün kaynakla eşleşir; yaklaşık yazı logosu kullanılmaz. İlk içerik 3D’yi beklemez. CTA üzerine canvas binmez. Model/texture/env başlangıç 3 MB hedefinde ölçülür. Tanımlı masaüstü ve mobil cihazlarda kare hızı kaydedilir; bütçe aşılıyorsa sonraki aşamadan önce optimize edilir veya hedef revizyonu gerekçelendirilir.
+
+- [x] P3.7a Referanstaki geometrik harf stili; krom çevre, beş kontrollü ışık rengi; eşit yön yazıları ve büyük ZY REKLAM. **Tamamlandı.**
 
 ## 7. P4 — Üretim sahnesi ve hizmetler
 
@@ -335,3 +337,12 @@ Sıradaki tek iş:
 - npm run build / TypeScript ve mevcut 26 + yeni 3 = 29 test başarılı. 360/768/1440 px yatay taşma yok; vitrin 360/1440 görüntüleri incelendi. P3_7_SHOWROOM_VERIFICATION.json ve dört ekran görüntüsü. Yazılım GPU/emülasyon fiziksel mobil performans kabulü değildir.
 - Vite ortak Three/SVGLoader chunk’ı ~600 KB / gzip ~154 KB için boyut uyarısı verir; dinamik yükleme korunur. Domain/Cloudflare, menüler ve WhatsApp değişmedi. LAST_REPORT.md üzerine yazıldı ve terminalde gösterildi.
 - Kayıt hedefi GitHub main. Canlı Cloudflare yayını bu yerel/üretim preview kabulünün parçası değildir; sonraki tek iş canlı yeni bölümün görünürlüğünü doğrulamaktır.
+
+### 2026-10-01 — P3.7a geometrik harf/krom/renkli ışık revizyonu
+
+- Yeni görsel açıldı: özgün wordmark’ın yuvarlatılmış/geometrik harf dili. Vitrindeki ZY REKLAM için özgün SVG konturları, diğer yazılar için aynı harfler ve uyumlu ek glifler. Önceki farklı-font şartı kullanıcının açık yeni talimatıyla revize edildi; hero kaynağı değişmedi.
+- Her harf gerçek ekstrüzyon krom kasa + ayrı iç ön yüz. Mouse/touch/klavye ile cam göbeği/kırmızı/mavi/turuncu/beyaz kontrollü ışık; idle kapalı. Totem amber tepkisini korur. FİKİR/TASARIM/ÜRETİM/GELİŞTİRME cap-height 0,345; ZY REKLAM 0,4372, yaklaşık %27 büyük. Uzun kelime küçültülmedi, kutular genişletildi.
+- Geometri 71.014 üçgen; ilk krom prototipindeki 167.318 üçgen bevel/curve bütçesiyle azaltıldı. Dinamik yükleme, idle/offscreen duruşu, mobil DPR/kalite düşürme ve reduced-motion sabit poz korunur. Fiziksel GPU kabulü hâlâ P3.6 kapsamında açık.
+- npm run build / TypeScript ve tüm 29 test başarılı, 0 fail. Yeni kabul stil/krom/beş renk, eşit harf yüksekliği/büyük başlık ile genişletildi. 360/1440 vitrin ekranları ve iki tabela ışıklı görünümü incelendi; 360/768/1440 genel taşma kontrolleri geçti.
+- P3_7_STYLE_PRESERVATION.json: index/main/CSS, hero modülleri, navigation, WhatsApp ve Wrangler aynı. Modeller/renderer, kontur üretici/JSON, responsive yedekler, showroom testi, envanter/plan/rapor ve kabul kanıtları değişti. Mimari v1.11/A12; roadmap v1.10. LAST_REPORT.md üzerine yazıldı ve terminalde gösterildi.
+- GitHub main kayıt hedefidir; canlı Cloudflare yayını bu yerel kabulden çıkarılmaz. Sıradaki tek iş: canlı vitrinde yeni krom/renkli harflerin yayınlandığını doğrulamak.

diff --git a/ARCHITECTURE.md b/ARCHITECTURE.md
@@ -1,6 +1,6 @@
 # ZY Reklam — Mimari
 
-**Sürüm:** 1.10 · **Tarih:** 2026-10-01 · **Durum:** P3 gerçek 3D ve güvenli yollar uygulandı; fiziksel cihaz performans kabulü açık
+**Sürüm:** 1.11 · **Tarih:** 2026-10-01 · **Durum:** P3 gerçek 3D ve güvenli yollar uygulandı; fiziksel cihaz performans kabulü açık
 
 **İlgili belgeler:** [Yol haritası](ROADMAP.md) · [Çalışma kuralları](AGENTS.md)
 
@@ -325,3 +325,9 @@ Video içerik kaydı isteğe bağlı description alanı içerir; üretici açık
 Kullanıcının açık kapsam revizyonu: hero ve hizmetler arasında bağımsız showroom; iki ekstrüzyon kutu harf tabela ve asimetrik totem. src/showroom modülü mevcut hero koduna dokunmadan lazy import ile yüklenir. Showroom kendi renderer/kaynaklarına sahiptir; iki canvas ayrıdır. Hero ürün alanı görünürken showroom RAF durdurulur; aynı anda iki sahnenin etkileşim döngüsü işletilmez. Bellekte iki context bulunabilmesi, özgün tek renderer hedefinin bu talimata özel açık revizyonudur.
 
 Showroom reduced-motion durumunda 3D olarak çizilir, poz/tilt sabit kalır. Idle/offscreen/hidden döngü yok; obje bazlı proximity, dokunma ve klavye ışık tepkisi. Yükleme/WebGL/context hatasında aynı gerçek 3D kompozisyonun responsive WebP yedeği. Ürün tasarımları temsili olarak belirtilir; tamamlanmış müşteri işi iddiası yok. P3.6 fiziksel cihaz kabulü açık kalır.
+
+### 2026-10-01 — A12 vitrin harf/ışık revizyonu (P3.7a)
+
+Kullanıcının yeni görsel referansı özgün ZY wordmark harf stilini işaret eder. Vitrindeki ZY REKLAM, kaynak vektörün Z/Y/R/E/K/L/A/M konturlarından türetilir; diğer kelimeler aynı konturlar ile bu geometrik dile uyarlanmış D/H/I/F/G/S/T/U ve Türkçe işaretlerden oluşur. Bu showroom revizyonu önceki farklı-font şartını değiştirir; özgün hero/logo dosyalarına dokunulmaz. Her glifin gerçek ekstrüzyon krom kasası ve içe oturan ayrı ışıklı ön yüzü vardır.
+
+İki tabelada cam göbeği, kırmızı, mavi, turuncu ve beyazın kontrollü tonları harflere dağıtılır; seçilen ürün yaklaşma/dokunma/klavye ile aydınlanır. Idle kapalı, renk döngüsü/strobe yok. Totem amber kalır. Dört yön yazısı aynı cap-height ölçeğinde, üst ZY REKLAM yaklaşık %27 daha büyük; uzun kelimeyi küçültmek yerine kutu genişliği artırılır. Bağımsız/lazy/reduced-motion/idle/offscreen/context yedeği sözleşmesi korunur.

diff --git a/docs/ASSET_INVENTORY.md b/docs/ASSET_INVENTORY.md
@@ -65,3 +65,7 @@ Altı fotoğraf (ilk beş Tabela, sonuncu Totem) ve yazili_su.mp4 (Özel Üretim
 P3.7 modelleri bu proje için kodla üretildi; fotoğraf yapıştırılan düzlem veya üçüncü taraf müşteri referansı kullanılmadı. `public/assets/showroom/letter-outlines.json` gerçek font konturlarından türetilmiş SVG yollarıdır; SVGLoader + bevel/extrusion ile fiziksel ön/yan yüzler üretir. ZY REKLAM/totem için DejaVu Sans Bold; DAHA İLERİYE için Nimbus Sans Narrow Regular kullanıldı. Türkçe İ/Ü/Ş dahil kaynak glifler doğrulandı. Font yazılımları dağıtılmadı; türetilmiş konturlar ve ilgili DejaVu/URW lisans bildirimleri `FONT_NOTICES.txt` ile kaydedildi. Hero’nun özgün logo/font varlıkları aynı kaldı.
 
 `static-desktop.webp` ve `static-mobile.webp` yeni gerçek WebGL sahnesinin hareketsiz ekran görüntüleridir; Three.js yüklenemediğinde veya context kaybında aynı ürün düzenini gösterir. Her üç ürün temsili ürün tasarımı olarak etiketlenir; gerçek üretim/müşteri sahipliği kabulü değildir.
+
+## 2026-10-01 — P3.7a harf revizyonu
+
+Yeni ekran görüntüsü açılıp geometrik/yuvarlatılmış özgün ZY wordmark stili doğrulandı. letter-outlines.json artık DejaVu/Nimbus fontlarını kullanmaz: özgün SVG’den Z/Y/R/E/K/L/A/M konturları ve aynı dilde kodla oluşturulan ek glifler. Hero wordmark dosyası değişmedi. Python fontTools yalnız isteğe bağlı kontur üretim script’i içindir; npm build sürümlenmiş JSON’u kullanır. Önceki FONT_NOTICES.txt önceki varlıkların tarihsel bildirimi olarak tutulur. Masaüstü/mobil WebP yedekler yeni gerçek krom kasalı 3D görünümden yenilendi.
